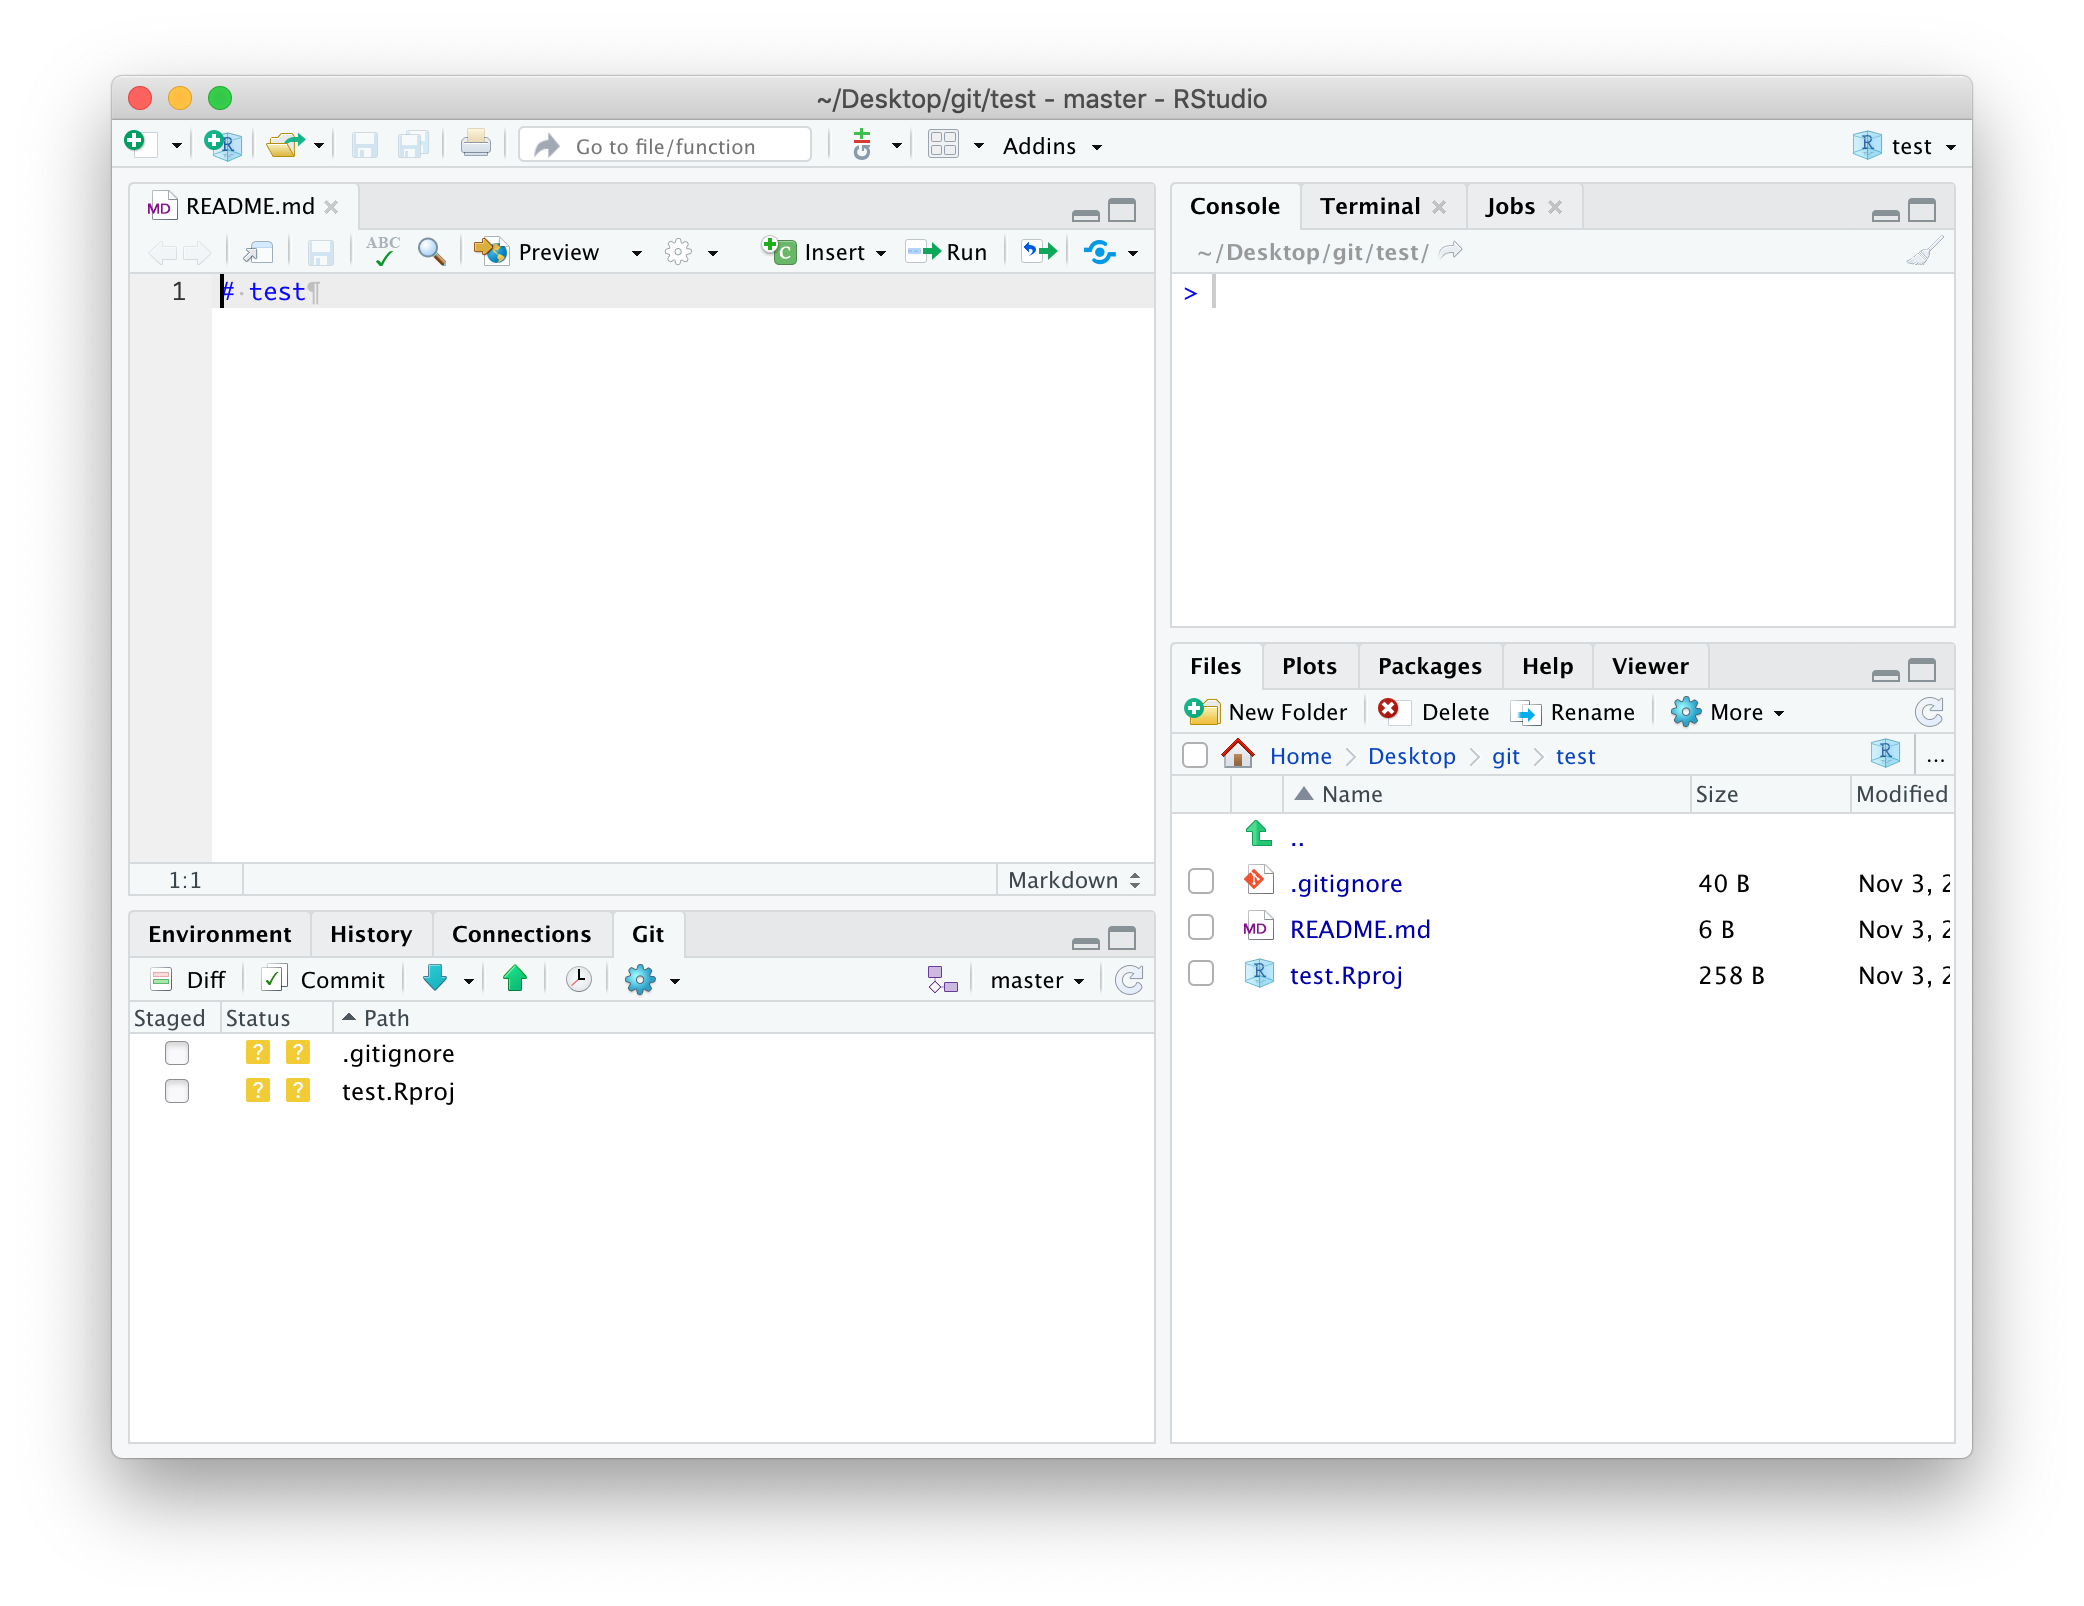
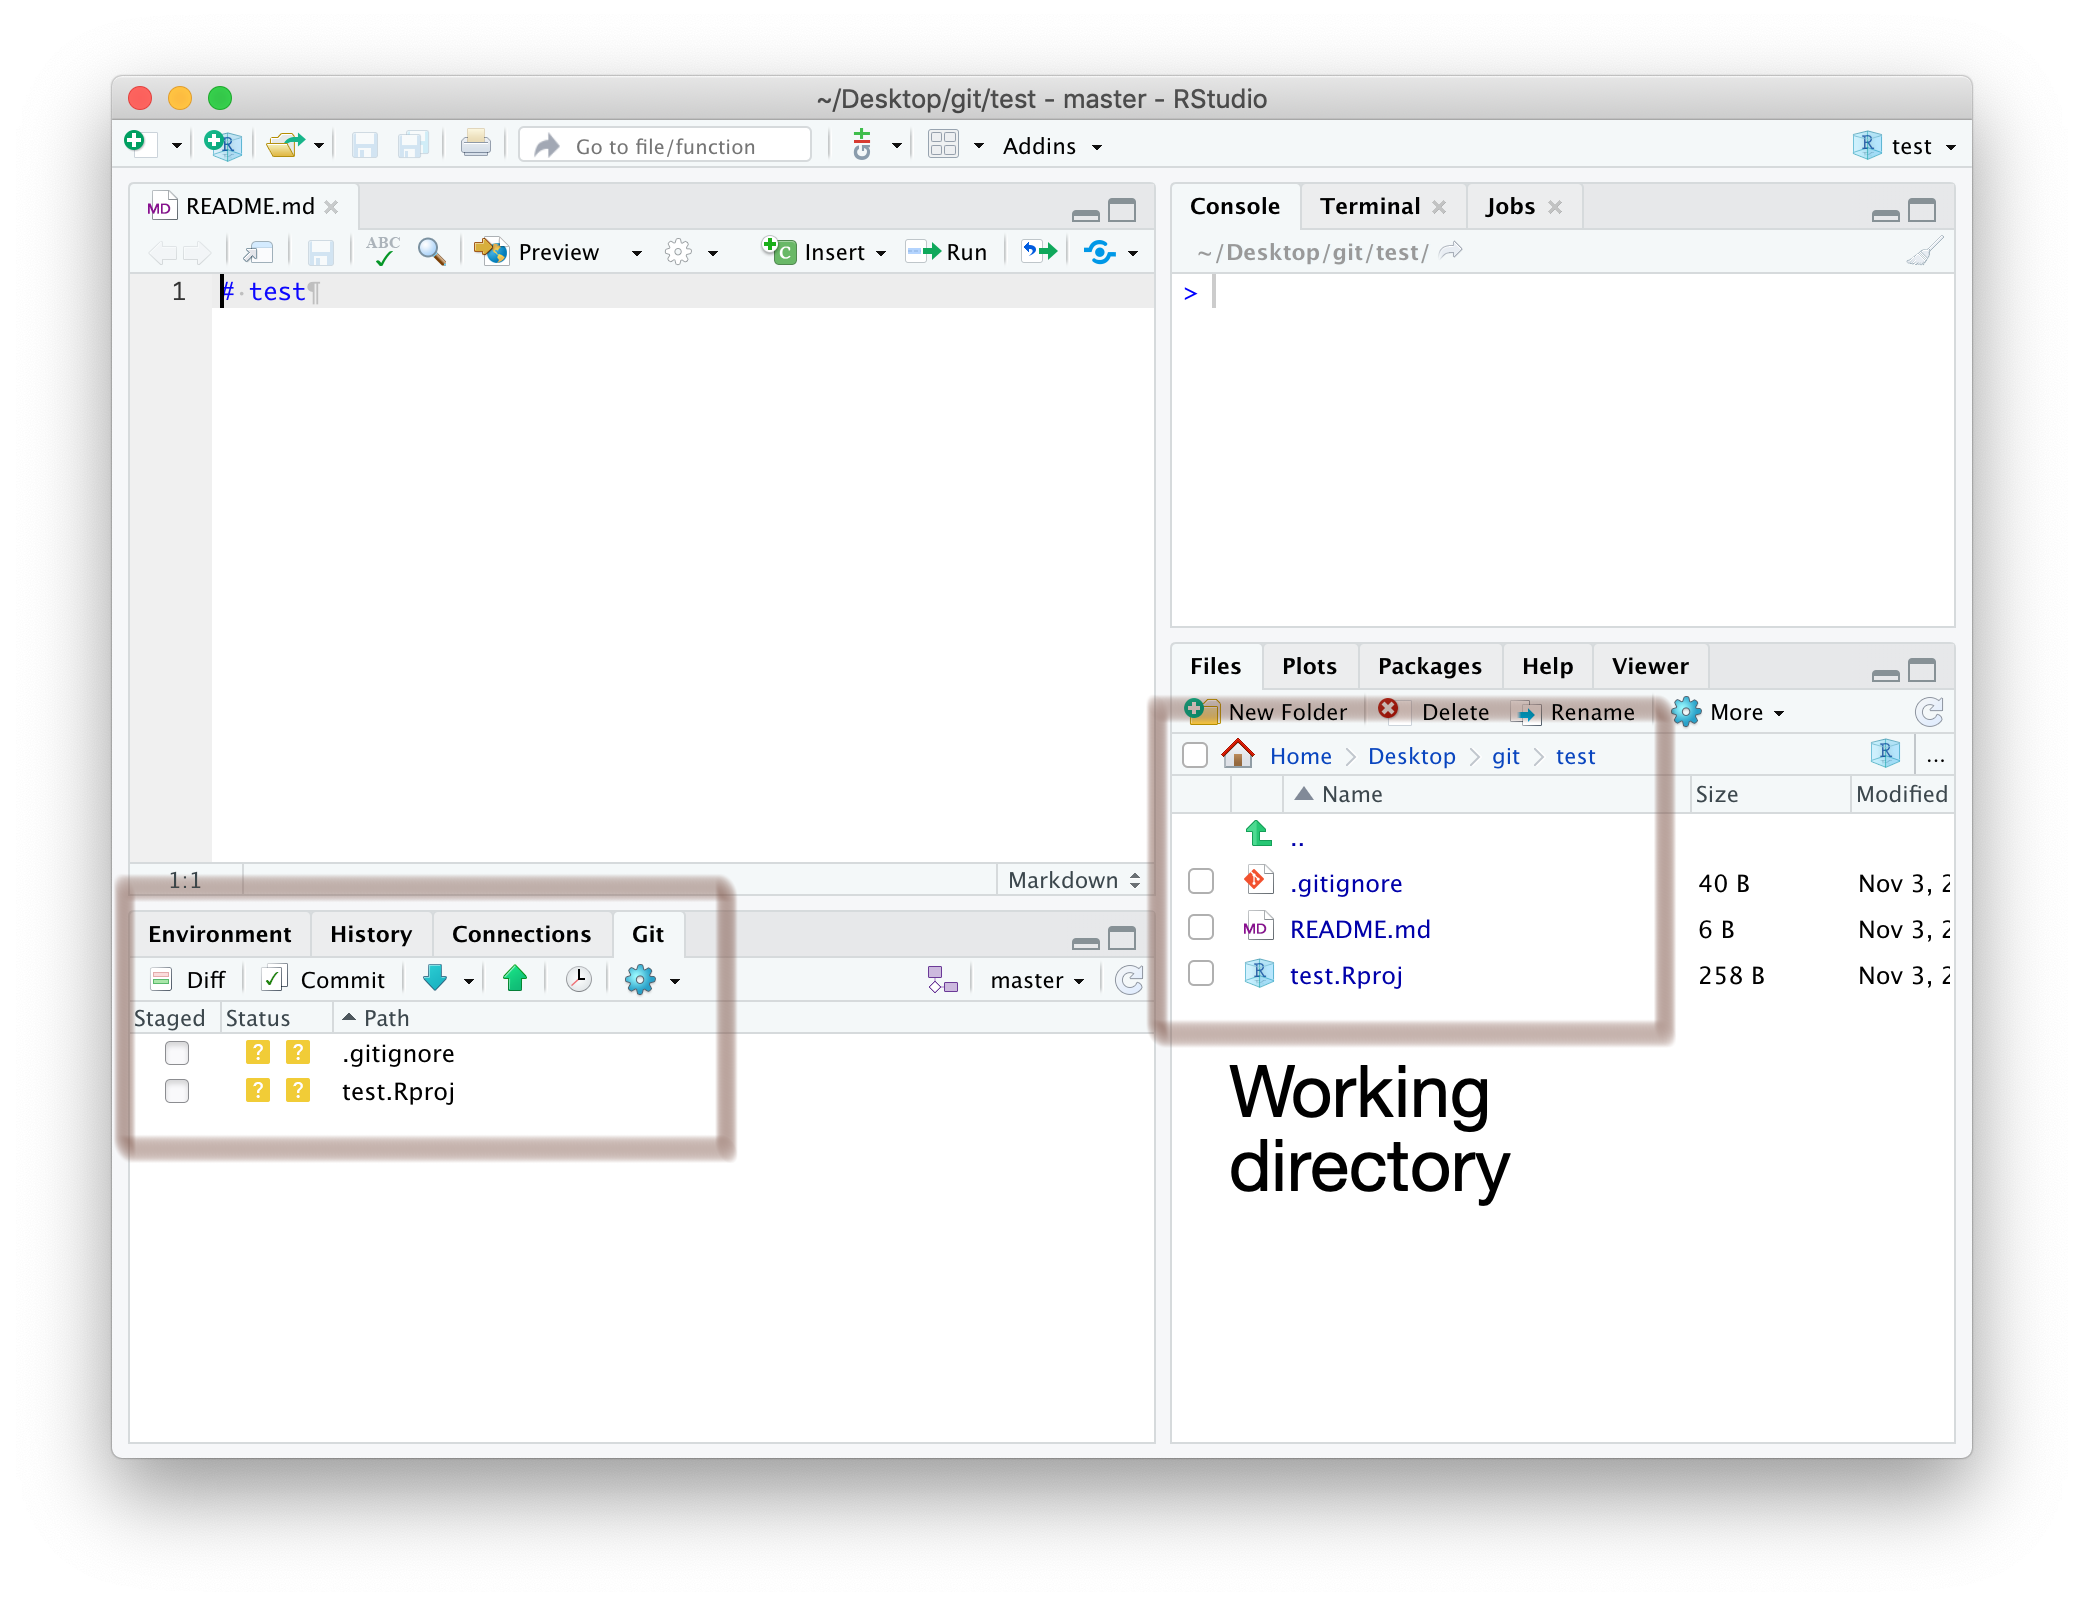
Edit readme

Changed region(s): [[0.5302, 0.4359, 0.8109, 0.7472], [0.0312, 0.5293, 0.3743, 0.7472]]

diff --git a/README.md b/README.md
@@ -96,6 +96,9 @@ a real project, this repository has been named `test`.
 
 <img src="https://github.com/mysteryduck/github/blob/master/img/1-2.png" height="500">
 
+Congratulations! You have successfully created a new GitHub repository, 
+containing a single `README.md` file. Remember this for later.
+
 Now **copy** the URL associated with your GitHub repository to your clipboard
 
 <img src="https://github.com/mysteryduck/github/blob/master/img/1-3.png" height="500">
@@ -128,9 +131,9 @@ as this will cause problems). Now click **Create Project**
 Congratulations! You have successfully created a new RStudio project. In the 
 example below, the RStudio project is called `test`. A new directory, `test`, 
 has been created inside the git folder on your desktop (this is now your  
-working directory). Inside this directory are three files, including an RStudio  
-project file (`test.Rproj`), a GitHub `README.md` file, and an invisible `.gitignore` 
-file. 
+working directory). Inside this directory are three files, including a GitHub 
+`README.md` file (imported from your GitHub repository), an RStudio project
+file (`test.Rproj`), and an invisible `.gitignore` file (created by RStudio). 
 
 Note the appearance of a new **Git** tab next to **Connections**. This is 
 important.
@@ -143,13 +146,15 @@ important.
 Compare the contents of your working directory to the files listed in the
 **Git** tab. The **Git** tab is a useful tool that shows you how your remote
 directory (your GitHub repository) differs from your local directory 
-(your working directory). Currently, 
+(in this case `~Desktop/Git/test`). Currently, the `README.md` file in your  
+local directory is identical to the one in your remote directory. That's why 
+you can't see it in the **Git** tab. Instead, `.gitignore` and `test.Rproj`
+are listed with yellow **Status** question marks. What do these icons mean?
 
-Note that the `README.md` file in your working (local) directory
+* "?" - Files or directories that don't currently exist in the git repository
+* "A" - Files that have been staged and are ready to commit
+* "M" - Files that are modified versions of those in the repository 
 
-
-Open `README.md` by clicking on the file in the **Files** tab and look at the 
-**Git** tab. It's not there! Why? The **Status** icons 
 
 <img src="https://github.com/mysteryduck/github/blob/master/img/2-6.png" height="500">
 
@@ -157,7 +162,6 @@ Open `README.md` by clicking on the file in the **Files** tab and look at the
 <img src="https://github.com/mysteryduck/github/blob/master/img/2-7.png" height="500">
 
 
-<img src="https://github.com/mysteryduck/github/blob/master/img/2-8.png" height="500">
 
 
 
